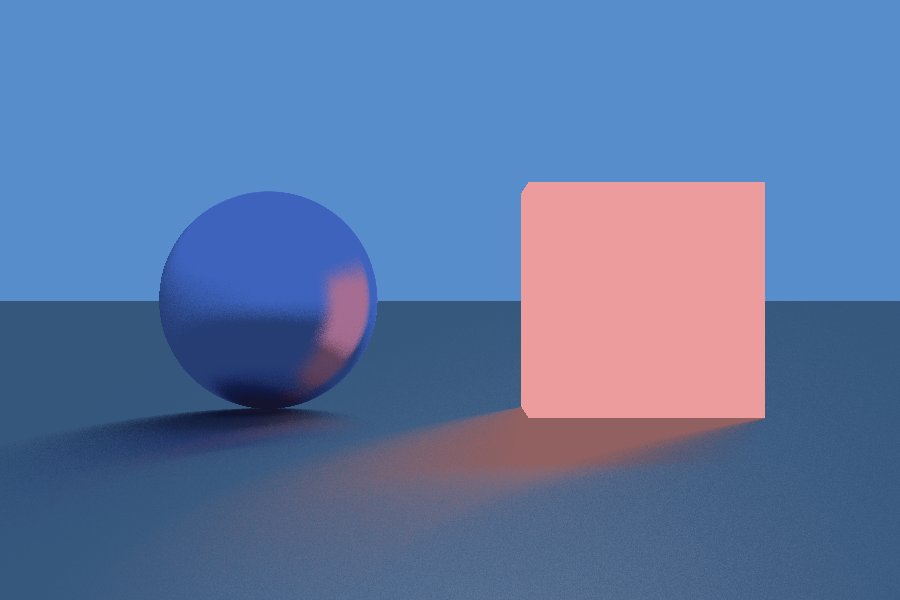
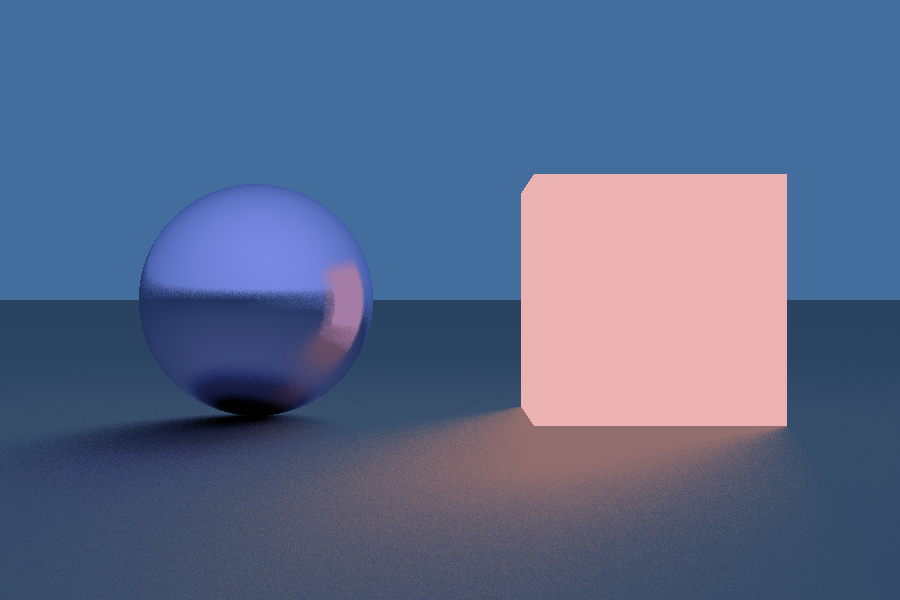
Minor changes and new renders

diff --git a/main.py b/main.py
@@ -12,16 +12,16 @@ if __name__ == "__main__":
     camera_pos = np.array([0, 0, -3])
 
     lights = [
-        Light([-1, 1, 0.5]),
+        Light([0, 2, 0.3]),
     ]
 
     objects = [
         Sphere(np.array([0.5, 0, 0.5]), 0.3, Material([0.9, 0.6, 0.6], 0)),
         Sphere(np.array([-0.5, 0, 0.5]), 0.3, Material([0.6, 0.6, 0.9], 0.7)),
-        Cube(np.array([0, -1000, 0]), 1000 - 0.3, Material([0.5, 0.5, 0.5], 1, 0))
+        Cube(np.array([0, -1000, 0]), 1000 - 0.3, Material([0.5, 0.5, 0.5], 0.3))
     ]
 
     rte = RayTracingEngine(300 * scale, 200 * scale, 6, camera_pos, objects, lights,
                            sky_color=np.array([0.3, 0.6, 1.0]) / 2)
 
-    plt.imsave('image.png', rte.render(sampling=1, gamma=0.7))
+    plt.imsave('image.png', rte.render(sampling=8, gamma=0.7))

diff --git a/RTEngine/material.py b/RTEngine/material.py
@@ -10,8 +10,11 @@ class Material:
         assert isinstance(refl, int | float)
         assert isinstance(bloom, bool)
 
+        assert 0 <= matt <= 1
+        assert 0 <= refl <= 1
+
         self.color = array(color) if isinstance(color, list) else color
-        self.matt = matt + 1e-3
-        self.refl = refl + 1e-3
+        self.matt = matt
+        self.refl = refl
 
         self.bloom = bloom

diff --git a/RTEngine/ray_tracing_engine.py b/RTEngine/ray_tracing_engine.py
@@ -98,7 +98,7 @@ class RayTracingEngine:
 
         return i, j, np.clip(color, 0, 1)
 
-    def render(self, sampling: int = 8, processes: bool = None, gamma: int = 0.7):
+    def render(self, sampling: int = 8, processes: int = None, gamma: int = 0.7):
         processes = cpu_count() if processes is None else processes
 
         image = np.zeros((self.height, self.width, 3))

diff --git a/readme.md b/readme.md
@@ -28,19 +28,20 @@ from RTEngine.lights import Light
 if __name__ == "__main__":
     scale = 3
 
-    camera_pos = np.array([0, 0, -7])
+    camera_pos = np.array([0, 0, -3])
 
     lights = [
-        Light([0.35, 0.9, -1]),
+        Light([0, 2, 0.3]),
     ]
 
     objects = [
-        Sphere(np.array([0.5, 0, -1]), 0.3, Material([0.9, 0.6, 0.6], 0)),
-        Sphere(np.array([-0.5, 0, -1]), 0.3, Material([0.6, 0.6, 0.9], 0.7)),
+        Sphere(np.array([0.5, 0, 0.5]), 0.3, Material([0.9, 0.6, 0.6], 0)),
+        Sphere(np.array([-0.5, 0, 0.5]), 0.3, Material([0.6, 0.6, 0.9], 0.7)),
         Cube(np.array([0, -1000, 0]), 1000 - 0.3, Material([0.5, 0.5, 0.5], 0.3))
     ]
 
-    rte = RayTracingEngine(300 * scale, 200 * scale, 6, camera_pos, objects, lights)
+    rte = RayTracingEngine(300 * scale, 200 * scale, 6, camera_pos, objects, lights,
+                           sky_color=np.array([0.3, 0.6, 1.0]) / 2)
 
     plt.imsave('image.png', rte.render(sampling=8, gamma=0.7))
 ```
